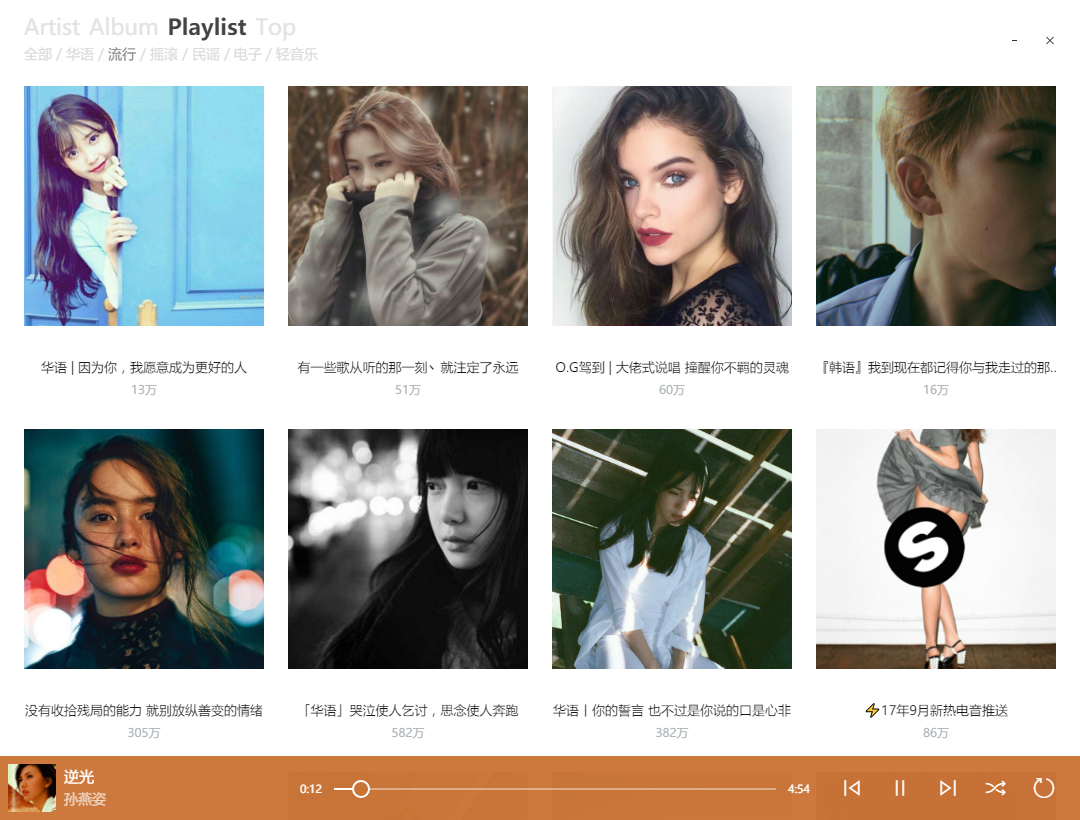
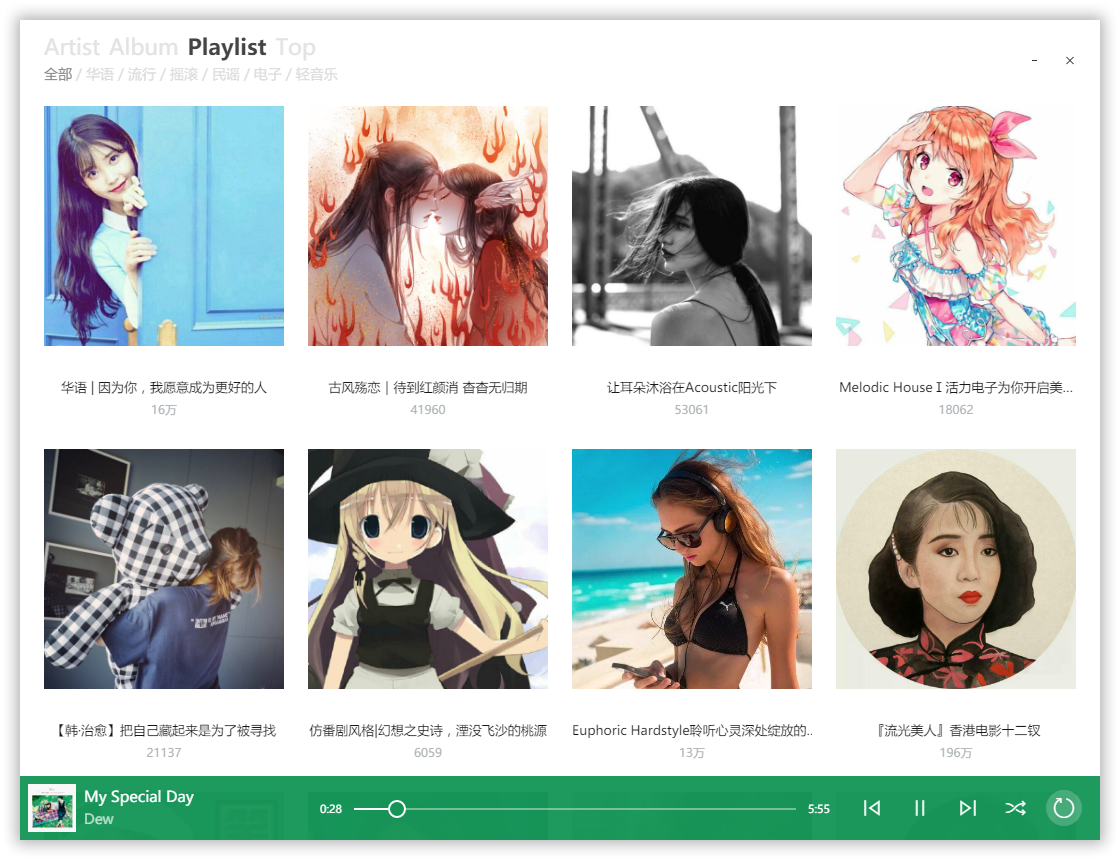
edit README

diff --git a/README.md b/README.md
@@ -1,3 +1,21 @@
 # Glee
-一个播放器=.=
-![](./screenshot/sshot-1.png)
+Built by Electron, Vanilla JS, Plain CSS
+> 主要是感觉 "目前最好的网易云音乐客户端 [trazyn/ieaseMusic](https://github.com/trazyn/ieaseMusic)" 不太和我审美
+
+## Description
+- 基于 Electron, Windows 专属
+- 原生 JS, 手写 CSS
+- 只能算是个播放器, 像 [listen1/listen1](https://github.com/listen1/listen1) 这样
+- 数据来自网易云音乐API, 搬了[Binaryify/NeteaseCloudMusicApi](https://github.com/Binaryify/NeteaseCloudMusicApi), [sqaiyan/netmusic-node](https://github.com/sqaiyan/netmusic-node)的加密源码
+- 不能登录的, 主要是不会写, 还有邮箱登录 API 被封了?
+- 界面抄的巨硬家的 Groove Music (还直接偷了 iconfont 用)
+- 还没有写搜索
+
+## Feature
+- 好看
+- 大概能用 (感觉还差很多呢, 先这样吧)
+- 下载歌曲写入ID3 Tag (灵感来自[codezjx/netease-cloud-music-dl](https://github.com/codezjx/netease-cloud-music-dl))
+
+![1](./screenshot/sshot-1.png)
+![2](./screenshot/sshot-2.png)
+![3](./screenshot/sshot-3.png)
